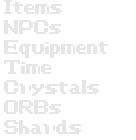
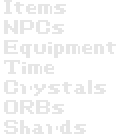
Adjust tracker box retro title positions

diff --git a/src/properties/trackerProperties.ts b/src/properties/trackerProperties.ts
@@ -11,7 +11,7 @@ export const itemsTitle = (isModern: boolean): ITitle => {
   return {
     titleImageLocationX: 0,
     titleImageLocationY: 0,
-    titleWidth: isModern ? 58 : 65,
+    titleWidth: isModern ? 58 : 69,
   };
 };
 
@@ -19,7 +19,7 @@ export const npcsTitle = (isModern: boolean): ITitle => {
   return {
     titleImageLocationX: 0,
     titleImageLocationY: 20,
-    titleWidth: isModern ? 56 : 64,
+    titleWidth: isModern ? 56 : 67,
   };
 };
 
@@ -27,7 +27,7 @@ export const crystalsTitle = (isModern: boolean): ITitle => {
   return {
     titleImageLocationX: 0,
     titleImageLocationY: 80,
-    titleWidth: isModern ? 92 : 102,
+    titleWidth: isModern ? 92 : 109,
   };
 };
 
@@ -35,7 +35,7 @@ export const orbsTitle = (isModern: boolean): ITitle => {
   return {
     titleImageLocationX: 0,
     titleImageLocationY: 100,
-    titleWidth: isModern ? 52 : 64,
+    titleWidth: isModern ? 52 : 67,
   };
 };
 
@@ -43,7 +43,7 @@ export const shardsTitle = (isModern: boolean): ITitle => {
   return {
     titleImageLocationX: 0,
     titleImageLocationY: 120,
-    titleWidth: isModern ? 74 : 84,
+    titleWidth: isModern ? 74 : 89,
   };
 };
 
@@ -51,7 +51,7 @@ export const timerTitle = (isModern: boolean): ITitle => {
   return {
     titleImageLocationX: 0,
     titleImageLocationY: 60,
-    titleWidth: isModern ? 48 : 54,
+    titleWidth: isModern ? 48 : 57,
   };
 };
 
